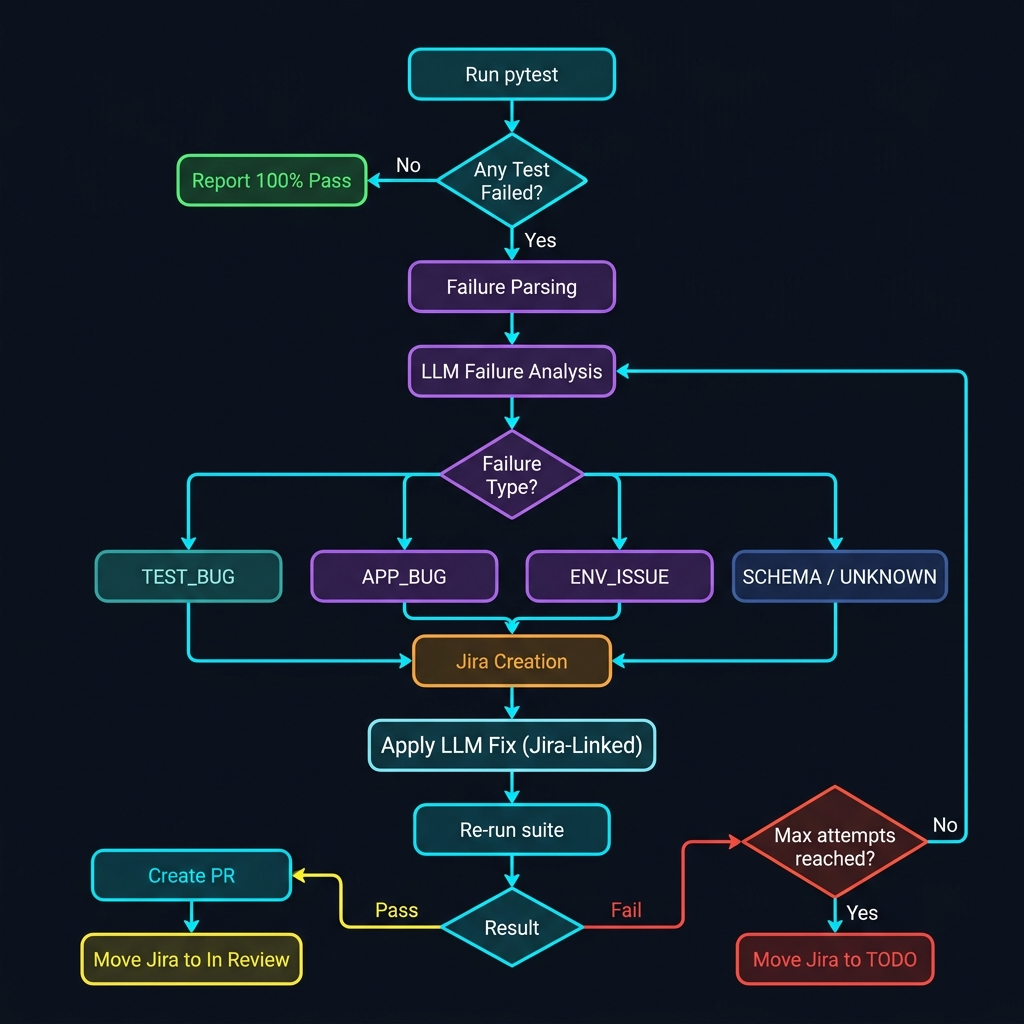
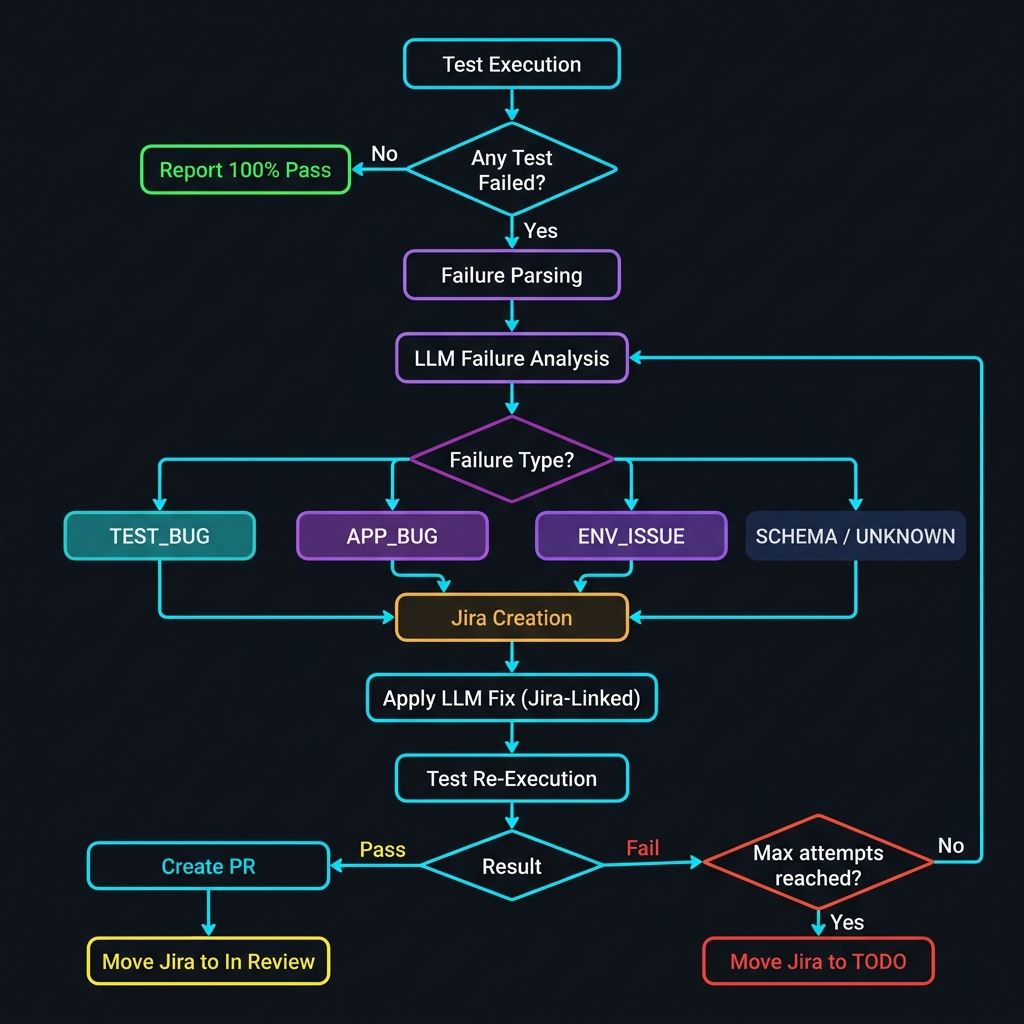
docs: rename Run pytest to Test Execution, Re-run suite to Test Re-Execution

Changed region(s): [[0.0625, 0.0312, 0.9688, 0.9688]]

diff --git a/app/routers/users.py b/app/routers/users.py
@@ -17,7 +17,7 @@ async def list_users(skip: int = 0, limit: int = 100, db: AsyncSession = Depends
 @router.post("/", response_model=schemas.UserOut, status_code=201)
 async def create_user(user: schemas.UserCreate, db: AsyncSession = Depends(get_db)):
     existing = await crud.get_user_by_email(db, user.email)
-    if existing or (user.email == "alice@test.com" and not existing):
+    if existing:
         raise HTTPException(status_code=409, detail="Email already registered")
     return await crud.create_user(db, user)
 

diff --git a/app/crud.py b/app/crud.py
@@ -110,7 +110,7 @@ async def get_tasks(
         query = query.where(models.Task.project_id == project_id)
     if status is not None:
         query = query.where(models.Task.status == status)
-    result = await db.execute(query.offset(limit).limit(limit))
+    result = await db.execute(query.offset(skip).limit(limit))
     return list(result.scalars().all())
 
 
